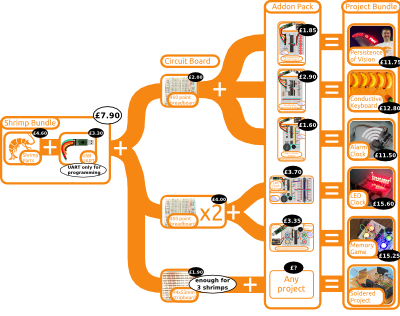
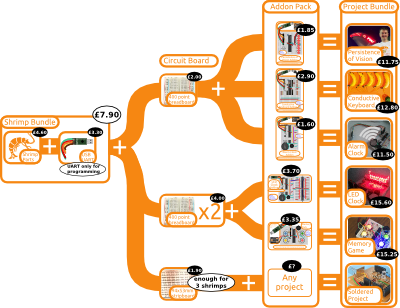
Fixed pathways map resolution

diff --git a/index.html b/index.html
@@ -182,7 +182,7 @@
     <h2 class="line-behind"><span>Kits Already Bagged</span></h2>
     <section id="combinations">
         <a href="../style/brand/combinations.png" target="_blank">
-            <img src="../style/brand/combinations_preview.png" alt="Pathways to ShrimpingIt Projects"/>
+            <img src="../style/brand/combinations.png" alt="Pathways to ShrimpingIt Projects"/>
         </a>
         <p>
             This table shows how our kits can be reused and recombined to make different projects.
